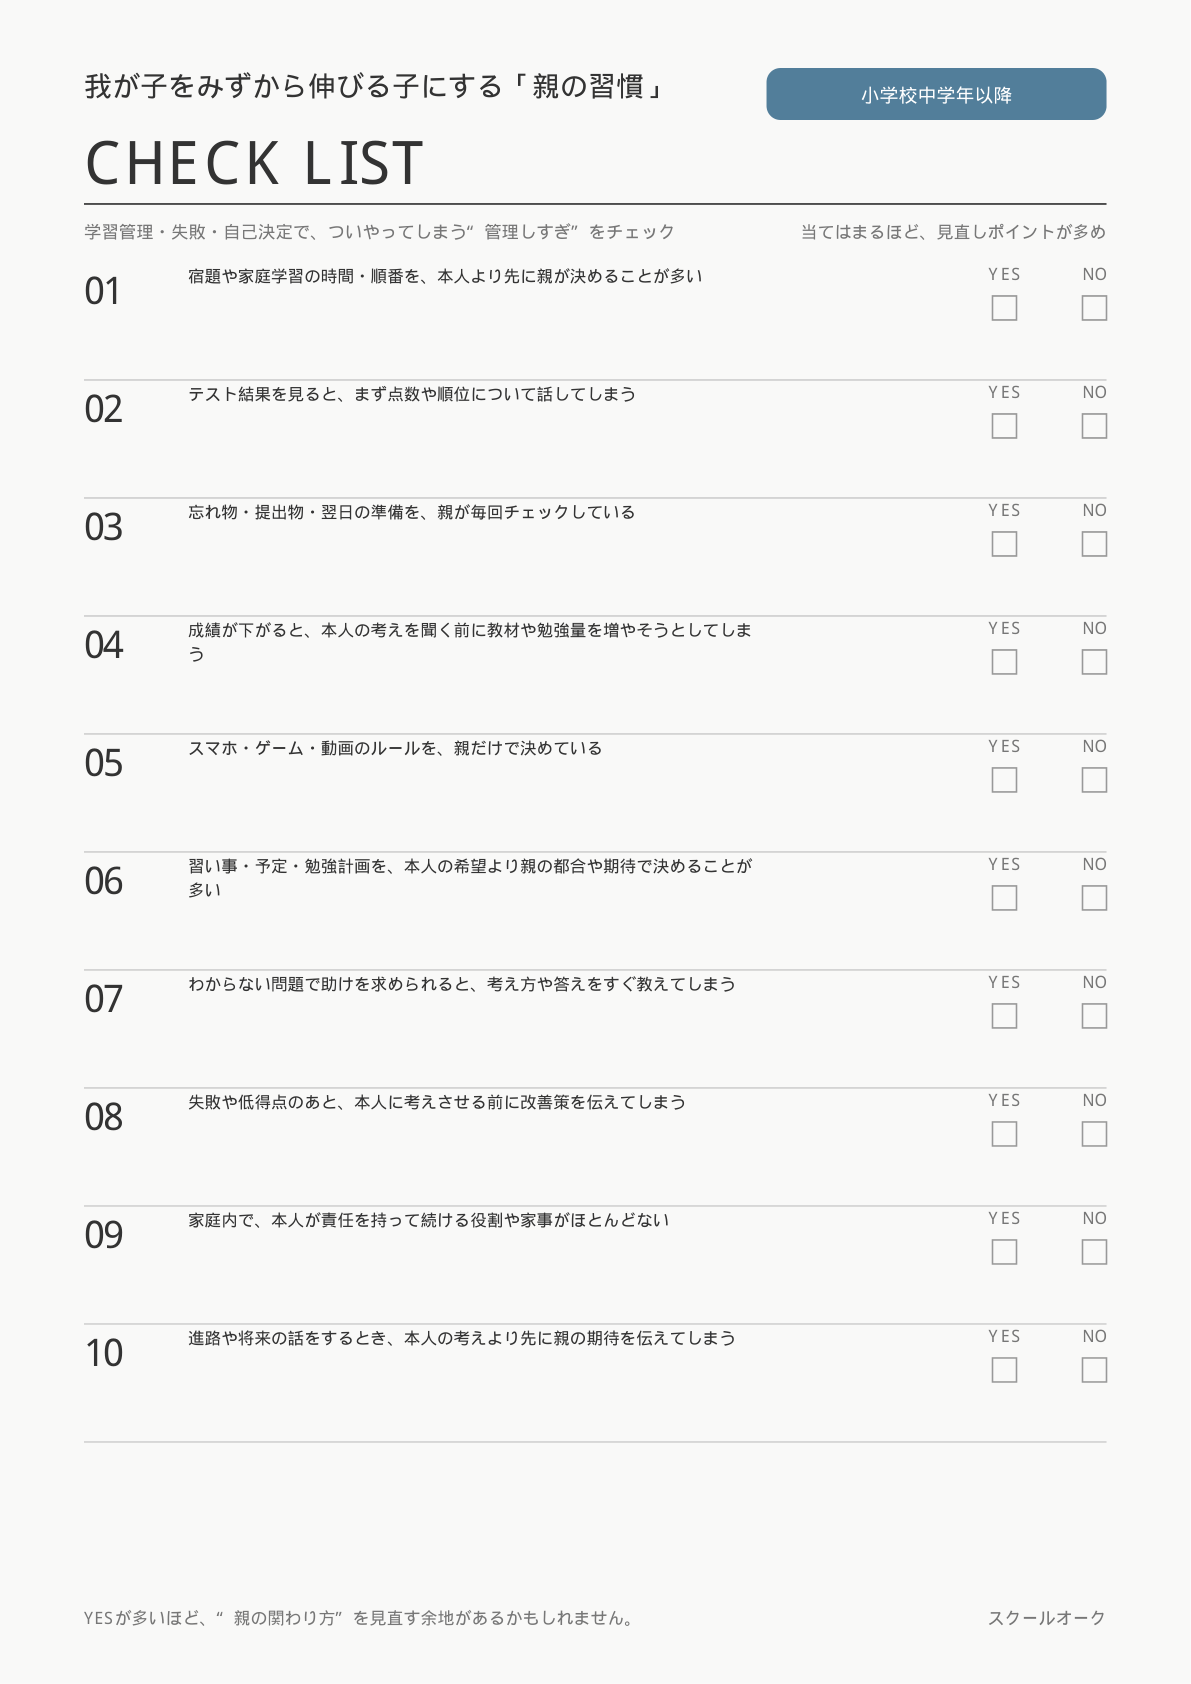
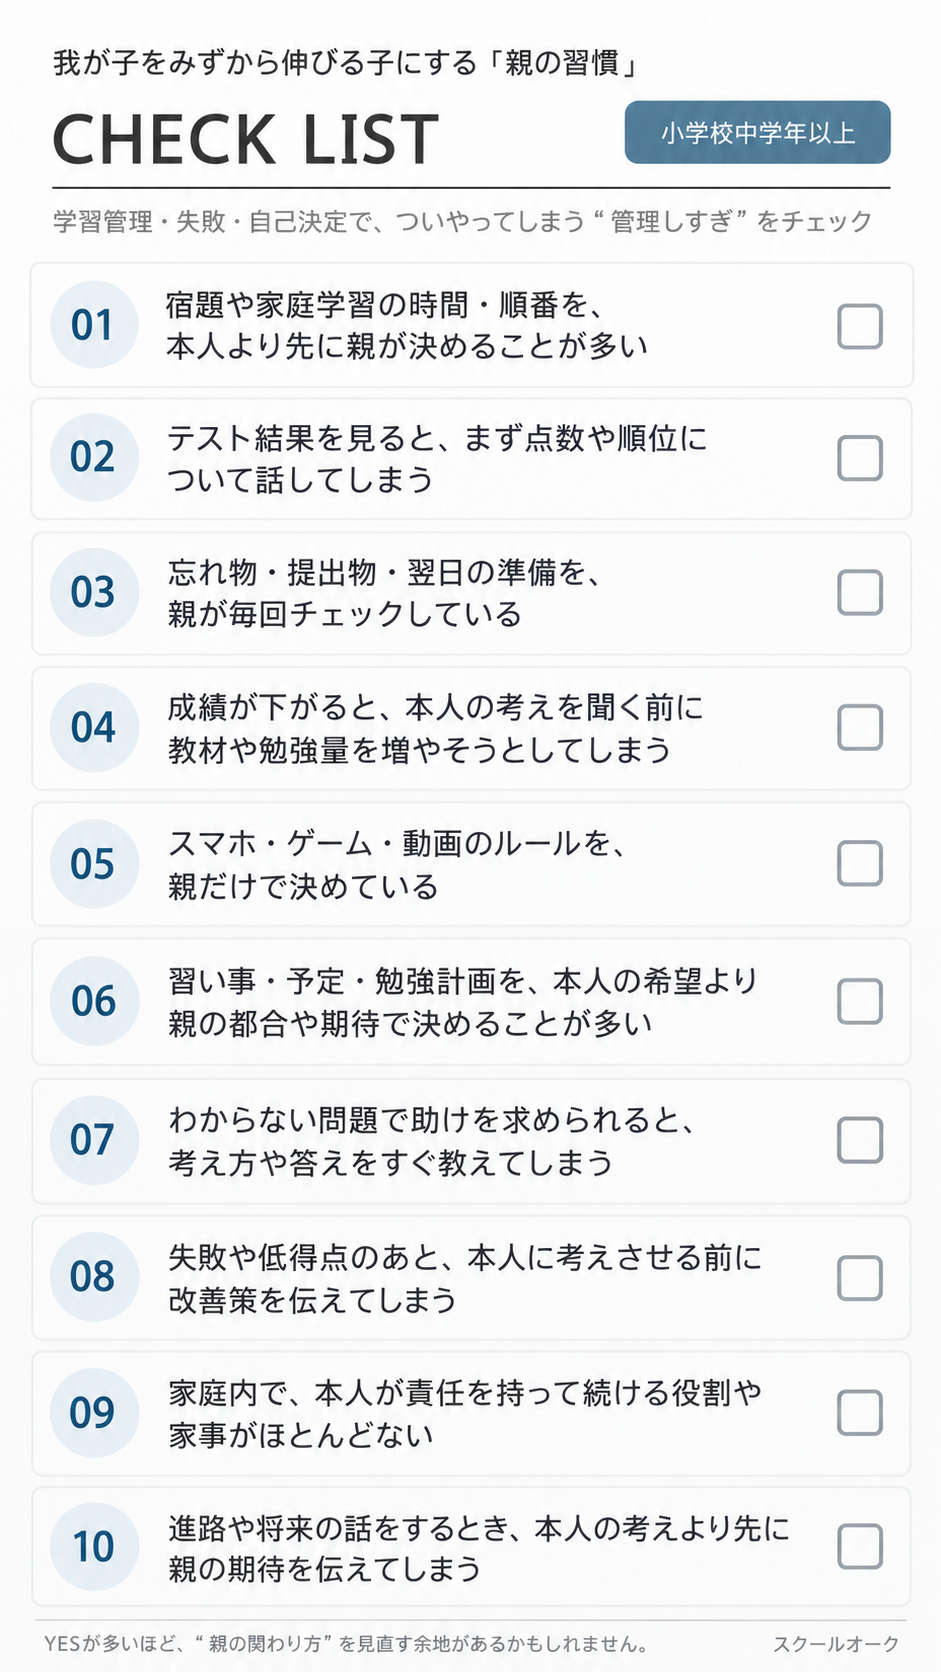
Replace checklist images and add sub-1MB preview images
New images are ~1.3MB, over LINE's 1MB limit for previewImageUrl, so each
sheet now has a resized JPEG preview alongside the full PNG.
present-1 = プレゼント② (preschool to lower elementary),
present-2 = プレゼント① (middle elementary and up).

diff --git a/api/_lib/messages.js b/api/_lib/messages.js
@@ -10,10 +10,23 @@
 // ステップ配信・自動追客・AIによる個別コメントはありません。
 // ============================================================
 
-/** チェックリスト（プレゼント）。画像は静的ファイル（PUBLIC_BASE_URL + path）。DBには sheet の識別値のみ保存。 */
+/**
+ * チェックリスト（プレゼント）。画像は静的ファイル（公開URL + path）。DBには sheet の識別値のみ保存。
+ * path: 原寸（LINE上限10MB）/ previewPath: トーク画面のプレビュー（LINE上限1MB。原寸が1MBを超えるため縮小JPEGを別に用意）
+ * 元画像: 子育て相談/images/プレゼント②.png → present-1（未就学〜小学校低学年まで）
+ *         子育て相談/images/プレゼント①.png → present-2（小学校中学年以上）
+ */
 export const SHEETS = {
-  present_1: { label: 'プレゼント1（未就学〜小学校低学年まで）', path: '/images/parent-check/present-1.png' },
-  present_2: { label: 'プレゼント2（小学校中学年以降）', path: '/images/parent-check/present-2.png' },
+  present_1: {
+    label: 'プレゼント②（未就学〜小学校低学年まで）',
+    path: '/images/parent-check/present-1.png',
+    previewPath: '/images/parent-check/present-1-preview.jpg',
+  },
+  present_2: {
+    label: 'プレゼント①（小学校中学年以上）',
+    path: '/images/parent-check/present-2.png',
+    previewPath: '/images/parent-check/present-2-preview.jpg',
+  },
 };
 
 /** 年代区分（education_stage）。sheet: その年代に送るチェックリスト */
@@ -211,8 +224,11 @@ export function checkCountQuickReply() {
 export function sheetMessages(sheet, { baseUrl } = {}) {
   const messages = [];
   if (baseUrl) {
-    const url = `${baseUrl}${SHEETS[sheet].path}`;
-    messages.push({ type: 'image', originalContentUrl: url, previewImageUrl: url });
+    messages.push({
+      type: 'image',
+      originalContentUrl: `${baseUrl}${SHEETS[sheet].path}`,
+      previewImageUrl: `${baseUrl}${SHEETS[sheet].previewPath}`,
+    });
   }
   messages.push({ type: 'text', text: SHEET_GUIDE, quickReply: checkCountQuickReply() });
   return messages;
